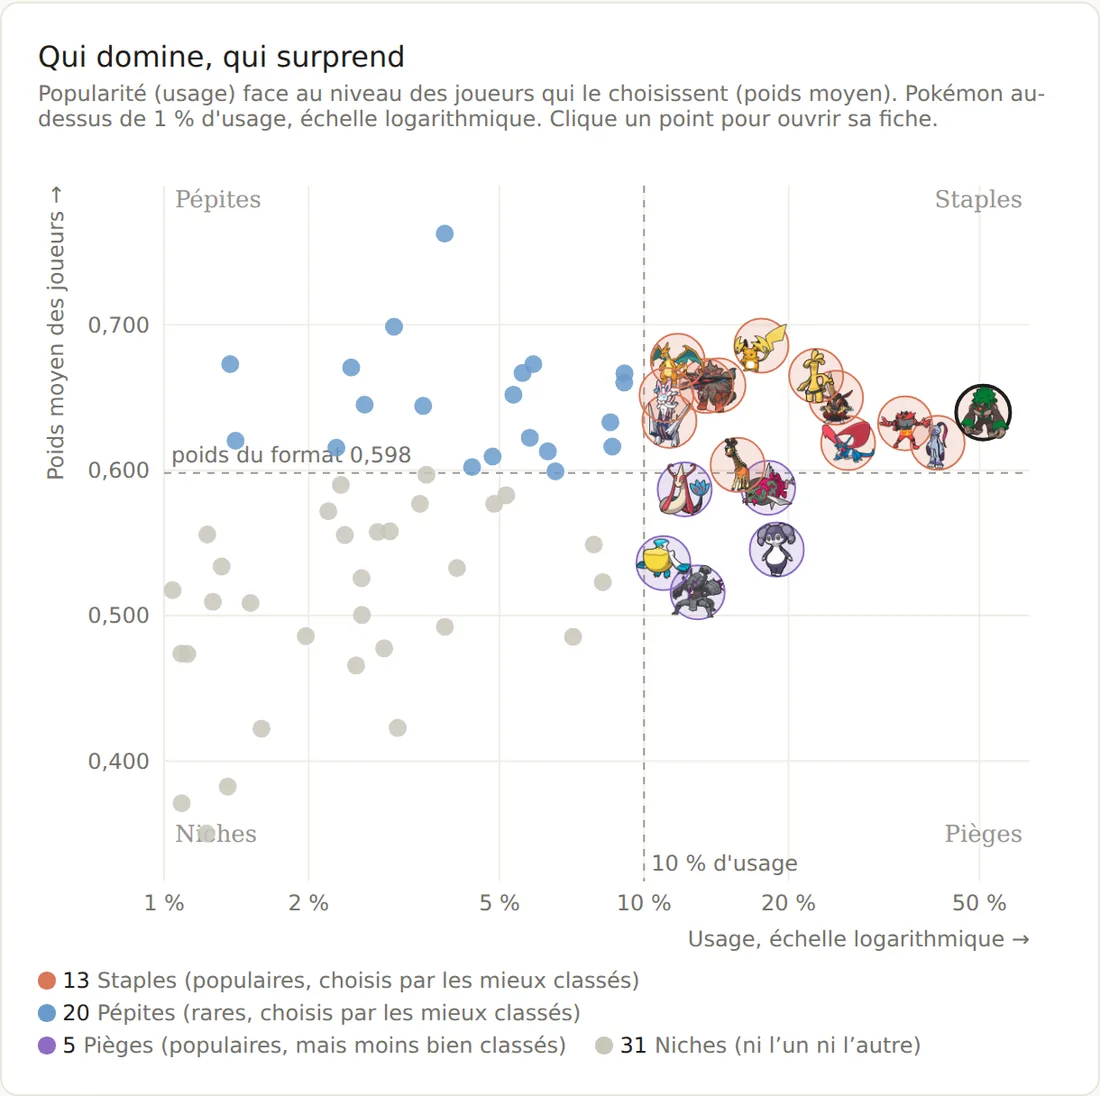
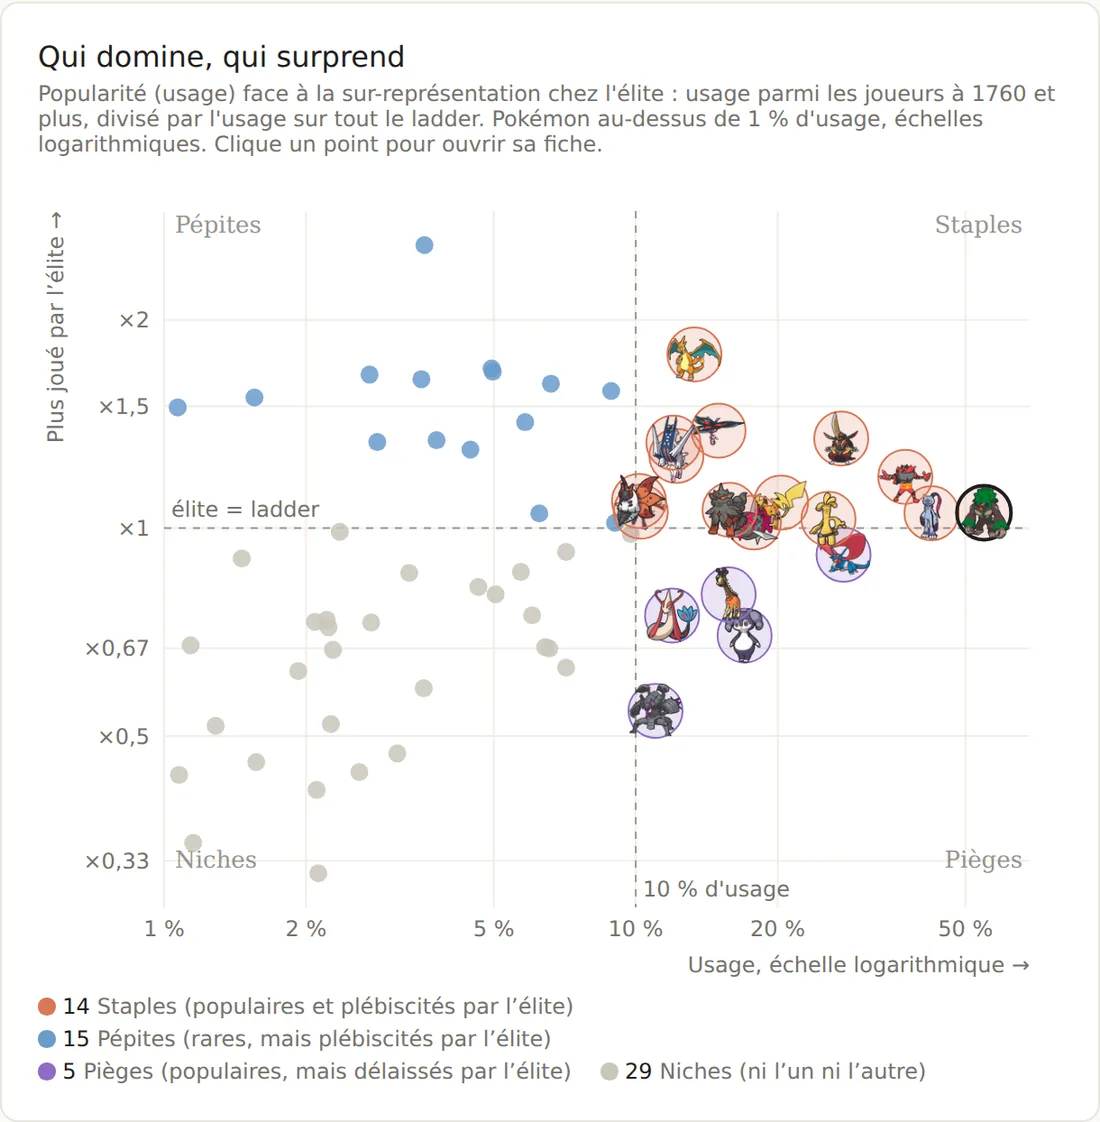
Quadrants sur l'adoption par l'élite (paliers 1760 et 0)
L'axe vertical des quadrants devient le ratio entre l'usage au palier
1760 et l'usage au palier 0, à la place du poids moyen. Chiffres du
README alignés sur les fichiers d'usage officiels, méthode réécrite,
mesures DAX alignées sur le tableau de bord, captures mises à jour.

diff --git a/docs/methode-quadrants.md b/docs/methode-quadrants.md
@@ -1,67 +1,74 @@
 # Méthode des quadrants
 
 L'usage seul ne dit pas si un Pokémon est bon : il dit qu'il est choisi. Pour
-séparer ce qui est populaire de ce qui est choisi par les meilleurs joueurs, on
-croise deux axes.
+séparer ce qui est populaire de ce que les meilleurs joueurs adoptent, on
+croise deux axes, tous deux tirés des fichiers d'usage officiels de Smogon.
 
 ## Les deux axes
 
-**Popularité : l'usage.** Part des équipes qui incluent le Pokémon :
+**Popularité : l'usage de référence.** Part des équipes qui incluent le
+Pokémon, pondérée par le classement des joueurs au **palier 1500**, telle que
+Smogon la publie (`usage_pct` de `fact_usage`).
+
+**Adoption par l'élite : le ratio élite / ladder.** Smogon publie le même mois
+à plusieurs paliers de pondération. Au palier 0, tous les joueurs comptent
+autant ; au palier 1760, le poids se concentre sur les mieux classés. Le ratio
+compare les deux :
 
 ```
-usage = apparitions ÷ (total des apparitions ÷ 6)
+ratio élite / ladder = usage au palier 1760 ÷ usage au palier 0
 ```
 
-Chaque équipe compte six emplacements, donc le total des apparitions divisé par
-six estime le nombre d'équipes.
-
-**Niveau : le poids moyen.** Smogon pondère chaque équipe selon le classement
-de son joueur. Le poids moyen d'un Pokémon (`Avg. weight` dans le fichier
-moveset) indique donc le niveau moyen des joueurs qui le choisissent.
+Au-dessus de 1, l'élite joue ce Pokémon davantage que l'ensemble du ladder.
+Charizard-Mega-Y passe ainsi de 11,9 % d'usage sur tout le ladder à 21,1 %
+chez l'élite, soit un ratio de 1,78. Golisopod-Mega fait le chemin inverse :
+12,7 % sur le ladder, 6,9 % chez l'élite, ratio de 0,54.
 
 ## Les seuils
 
 | Seuil | Valeur | Justification |
 |---|---|---|
 | Popularité | 10 % d'usage | environ une équipe sur dix : un Pokémon qu'on rencontre régulièrement |
-| Niveau | poids moyen du format, pondéré par les apparitions | sépare les Pokémon choisis par des joueurs mieux ou moins bien classés que la moyenne |
-| Affichage | 1 % d'usage minimum | sous ce seuil, le volume est trop faible pour que le poids moyen soit stable |
+| Adoption par l'élite | ratio de 1 | l'élite le joue au moins autant que l'ensemble du ladder |
+| Affichage | 1 % d'usage minimum | sous ce seuil, le volume est trop faible pour que le ratio soit stable |
 
-Le poids moyen du format se calcule comme une moyenne pondérée :
-
-```
-poids du format = Σ (apparitions × poids moyen) ÷ Σ apparitions
-```
-
-En septembre 2026, il vaut **0,598**.
+Le ratio s'affiche sur une échelle logarithmique : un Pokémon deux fois plus
+joué par l'élite (×2) et un autre deux fois moins (×0,5) sont ainsi à égale
+distance de la ligne de référence.
 
 ## Les quatre profils
 
 | Quadrant | Règle | Lecture | Septembre 2026 |
 |---|---|---|---|
-| **Staple** | usage ≥ 10 % et poids ≥ format | populaire et choisi par les mieux classés : le socle du format | 13 |
-| **Pépite** | usage < 10 % et poids ≥ format | peu joué, mais par les mieux classés : un signal faible à surveiller | 20 |
-| **Piège** | usage ≥ 10 % et poids < format | populaire, mais choisi par des joueurs moins bien classés | 5 |
-| **Niche** | usage < 10 % et poids < format | ni l'un ni l'autre | 31 |
+| **Staple** | usage ≥ 10 % et ratio ≥ 1 | populaire et plébiscité par l'élite : le socle du format | 14 |
+| **Pépite** | usage < 10 % et ratio ≥ 1 | rare, mais plébiscité par l'élite : un signal d'adoption précoce | 15 |
+| **Piège** | usage ≥ 10 % et ratio < 1 | populaire, mais délaissé par l'élite | 5 |
+| **Niche** | usage < 10 % et ratio < 1 | ni l'un ni l'autre | 29 |
 
-Exemples : Rillaboom, Sneasler et Incineroar sont des staples ; Kommo-o et
-Gengar-Mega des pépites ; Indeedee-F, Basculegion, Golisopod-Mega, Milotic et
-Pelipper sont les cinq pièges.
+Exemples de septembre 2026, sur 63 Pokémon au-dessus de 1 % d'usage :
+
+- **Staples** : Rillaboom, Sneasler, Incineroar, Kingambit, Charizard-Mega-Y.
+- **Pépites** : Venusaur (ratio 2,57), Kommo-o, Grimmsnarl, Gengar-Mega, Garchomp.
+- **Pièges** : Salamence-Mega, Indeedee-F, Farigiraf, Milotic, Golisopod-Mega.
 
 ## Les mêmes règles en DAX
 
-Le modèle Power BI porte la classification dans une colonne calculée,
-`Quadrant (dernier snapshot)`, car Power BI n'accepte pas une mesure comme
-légende d'un nuage de points. Voir la section correspondante de
-[`powerbi/mesures.dax`](../powerbi/mesures.dax).
+Le modèle Power BI applique exactement ces règles : mesure `Quadrant` pour les
+tables et infobulles, colonne calculée `Quadrant (dernier snapshot)` pour la
+légende du nuage de points, car Power BI n'accepte pas une mesure comme
+légende. Voir [`powerbi/mesures.dax`](../powerbi/mesures.dax), section 3.
 
 ## Limites
 
-- **Le niveau est approché, pas mesuré.** Le poids moyen est un indicateur
-  indirect. Avec les paliers 0 et 1760, on mesurera directement l'écart entre
-  l'élite et le reste du ladder.
-- **Un piège n'est pas un mauvais Pokémon.** Il est choisi en moyenne par des
-  joueurs moins bien classés, ce qui peut tenir à sa facilité de prise en main
-  plutôt qu'à sa faiblesse.
+- **Le seuil de 1 est strict.** Plusieurs Pokémon en sont très proches :
+  Basculegion (1,02), Gholdengo (1,03) ou Pelipper (0,98). Un écart de
+  quelques centièmes ne change pas leur profil réel ; c'est leur trajectoire
+  d'un mois sur l'autre qui tranchera.
+- **Le palier 1760 n'est pas un sous-ensemble de joueurs.** C'est une
+  pondération qui donne plus de poids aux mieux classés. Le ratio mesure donc
+  une tendance de l'élite, pas un comptage exact de ses équipes.
+- **Un piège n'est pas un mauvais Pokémon.** L'élite le joue moins que la
+  moyenne, ce qui peut tenir à sa facilité de prise en main ou à des réponses
+  bien connues des meilleurs joueurs.
 - **Les seuils sont des choix d'analyse.** Ils sont explicites pour pouvoir
   être discutés et modifiés, pas pour être tenus pour vrais.

diff --git a/README.md b/README.md
@@ -25,7 +25,7 @@ Ce projet constitue cet historique, un instantané par mois, et le rend lisible.
 | Dans le jeu | En entreprise |
 |---|---|
 | Usage d'un Pokémon | Part de marché d'un produit |
-| Classement moyen des joueurs qui le choisissent | Valeur du segment client qui l'achète |
+| Adoption par les meilleurs joueurs | Adoption par le segment client le plus exigeant |
 | Coéquipiers fréquents | Produits achetés ensemble, affinités de panier |
 | Adversaires qui le mettent en difficulté | Concurrents directs |
 | Un instantané par mois | Suivi de tendance et détection de ruptures |
@@ -34,13 +34,15 @@ Ce projet constitue cet historique, un instantané par mois, et le rend lisible.
 ## Résultats du premier mois (septembre 2026)
 
 - **446 954 équipes** analysées (223 477 batailles), **341 Pokémon** joués au moins une fois.
-- **Rillaboom figure dans une équipe sur deux** (50,9 %). Le top 10 occupe
-  45,3 % des emplacements d'équipe.
-- Croiser la popularité avec le niveau des joueurs donne quatre profils :
-  **13 staples, 20 pépites, 5 pièges, 31 niches** parmi les 69 Pokémon
-  au-dessus de 1 % d'usage. Détail de la méthode : [docs/methode-quadrants.md](docs/methode-quadrants.md).
+- **Rillaboom figure dans plus d'une équipe sur deux** (54,7 % d'usage au
+  palier 1500). Le top 10 occupe 45,3 % des emplacements d'équipe.
+- Croiser la popularité avec l'adoption par l'élite (usage au palier 1760
+  rapporté à l'usage sur tout le ladder) donne quatre profils :
+  **14 staples, 15 pépites, 5 pièges, 29 niches** parmi les 63 Pokémon
+  au-dessus de 1 % d'usage. Charizard-Mega-Y est 1,78 fois plus joué par
+  l'élite que par l'ensemble du ladder. Méthode : [docs/methode-quadrants.md](docs/methode-quadrants.md).
 
-![Nuage des quadrants : usage en abscisse, classement moyen des joueurs en ordonnée](docs/img/vgc-quadrants.webp)
+![Nuage des quadrants : usage en abscisse, ratio élite / ladder en ordonnée](docs/img/vgc-quadrants.webp)
 
 ## Architecture
 
@@ -117,8 +119,8 @@ docs/               modèle de données, méthode, journal qualité
 - [x] Modèle en étoile et traçabilité des instantanés
 - [x] Automatisation mensuelle et tests
 - [x] Tableau de bord : vue d'ensemble, quadrants, fiche par Pokémon, classement
+- [x] Écart élite / reste du ladder à partir des paliers 0 et 1760
 - [ ] Évolutions mois par mois (à partir des données d'octobre, publiées le 1er novembre)
-- [ ] Écart élite / reste du ladder à partir des paliers 0 et 1760
 - [ ] Résultats de tournois pour mesurer un taux de conversion en phase finale
 - [ ] Extension à la régulation M-D
 
